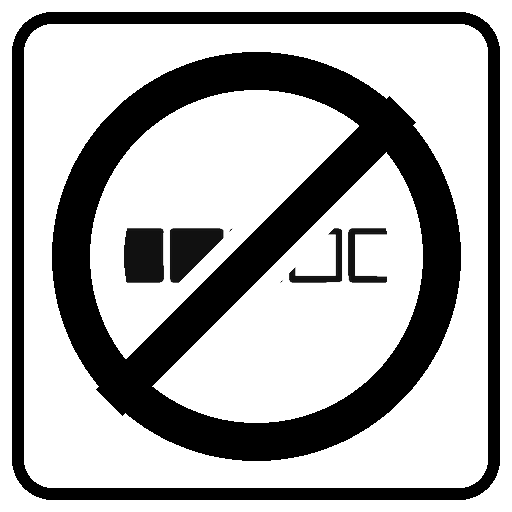
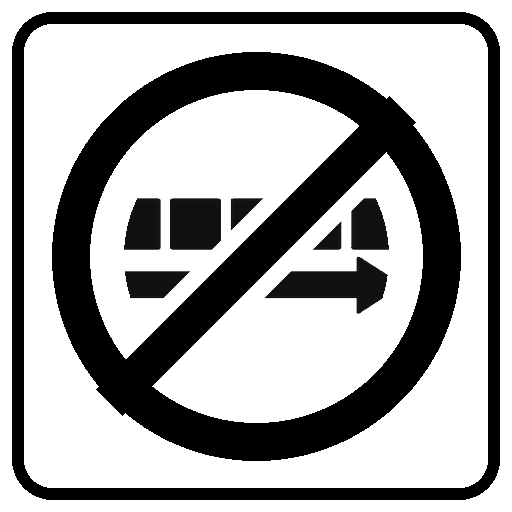
fix(glyph): finish_course 를 방향으로 다시 그린다
말라야대 Sheron Sir Loon Goh 전임강사가 이 그림을 그려진 그대로 읽었다 — "검은 점이
끝까지 차 있지 않으므로 나에게는 완주하지 않아도 된다는 뜻으로 읽힌다."

맞는 말이다. 다섯 칸 중 셋을 채우고 둘을 비운 것은 "며칠간" 을 그리려던 것인데,
진행 중인 상태를 그리면 그림은 **아직 안 끝났다** 를 말하지 끝내라를 말하지 않는다.
이 형태소는 제안서 §5.8 에서 SDG 3.d 기여의 근거로 든 바로 그것이라, 항생제를 끝까지
먹으라는 지시가 정반대로 읽히면 기여가 아니라 해가 된다.

같은 응답자가 제안한 방향 화살표를 쓴다. 다섯 칸을 모두 채우고 그 아래에 줄 전체를
가로지르는 굵은 화살표를 두어 마지막 칸을 가리키게 했다.

뜻 검사가 왜 이것을 못 잡았는지도 함께 고쳤다. means 가 'row of boxes' 였다 —
생김새만 물었으니 방향이 반대인 그림도 통과한다. 기대값을 'arrow pointing to the end
of a row of boxes' 로 바꿔, 이제 "네모 줄" 로만 보이면 검사가 떨어뜨린다. §5.2 의
의미 검사는 그림이 무엇처럼 보이는지를 묻는 장치이지 뜻이 바로 서 있는지를 묻는
장치가 아니었고, 그 빈틈이 정확히 여기였다.

생성은 시도 1에서 통과했다(잉크 0.19, 점수 97.1). Vision 은 "arrow with squares" 로
읽었다. 설치하고 dictionary 를 다시 만든 뒤 사전 렌더를 돌렸다 — 자산 지문이 바뀌어
캐시 117장이 전부 다시 그려졌고, 서비스워커 캐시 이름도 따라 올라갔다. 이 장치가
있어야 이미 앱을 연 적 있는 사람이 옛 그림을 계속 보지 않는다.

기계가 통과시킨 것이 사람에게 통한다는 보장은 없다. §5.10 의 현지 평가 목록에
넣어야 한다.

Changed region(s): [[0.2188, 0.375, 0.5312, 0.5938], [0.5, 0.375, 0.7812, 0.625]]

diff --git a/public/sw.js b/public/sw.js
@@ -12,7 +12,7 @@
  *  - API        : 통과 (판정은 신선해야 하고, 오프라인 폴백은 앱 코드가 직접 처리한다)
  */
 
-const VERSION = 'snapcare-14fec7778c364db1';
+const VERSION = 'snapcare-8f6dae37e290336e';
 const SHELL = `${VERSION}-shell`;
 const ASSETS = `${VERSION}-assets`;
 

diff --git a/engine/gen_glyphs.py b/engine/gen_glyphs.py
@@ -525,12 +525,26 @@ TARGETS: list[Target] = [
     ),
     Target(
         'finish_course', 'head', 'finish_course',
-        # "며칠간" — 먹은 날과 남은 날이 한 줄에 같이 보여야 한다.
-        'a row of five square boxes side by side with clear white gaps between them, the first three '
-        'boxes filled solid black and the last two drawn as bold empty outlines, all five the same '
-        'size and in a straight line',
+        # 이 그림은 **뜻이 뒤집혀 있었다.**
+        #
+        # 전에는 "먹은 날과 남은 날이 한 줄에 같이 보여야 한다" 는 생각으로 다섯 칸 중
+        # 셋을 채우고 둘을 비웠다. 2026년 8월 전문가 조사에서 말라야대 Sheron Sir Loon
+        # Goh 전임강사가 그것을 읽은 그대로 적었다 — "검은 점이 끝까지 차 있지 않으므로
+        # 나에게는 완주하지 않아도 된다는 뜻으로 읽힌다."
+        #
+        # 맞는 말이다. 진행 중인 상태를 그리면 그림은 **아직 안 끝났다**를 말하지,
+        # 끝내라를 말하지 않는다. 항생제를 끝까지 먹으라는 지시가 정반대로 읽히면
+        # 이것은 SDG 3.d 기여가 아니라 해다.
+        #
+        # 뜻 검사가 이것을 못 잡은 이유도 함께 적어 둔다. means 가 'row of boxes' 였다 —
+        # 생김새만 물었으니 방향이 반대인 그림도 통과한다. 그림이 아니라 **읽히는 방향**을
+        # 기대값에 넣어야 검사가 일을 한다. 같은 응답자가 제안한 화살표를 그 자리에 쓴다.
+        'a row of five square boxes side by side with clear white gaps between them, all five '
+        'filled solid black and the same size, and directly below them one bold thick horizontal '
+        'arrow spanning the whole row from the first box to the last with a large solid triangular '
+        'head pointing right at the last box',
         'a bar chart, a calendar grid, a barcode, a ruler',
-        means='row of boxes',
+        means='arrow pointing to the end of a row of boxes',
     ),
 
     # ── 증상 ────────────────────────────────────────────────────────────────
